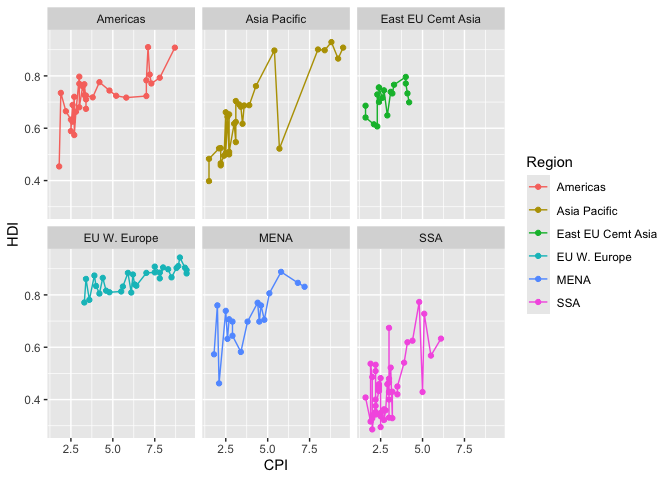
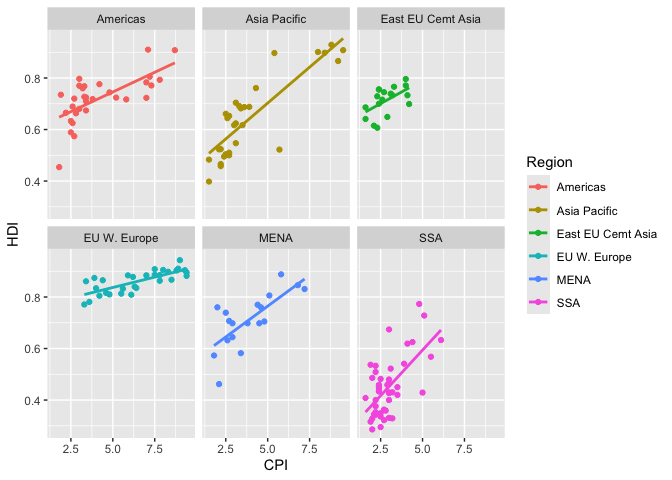
make progress

diff --git a/problem_sets/assignment_4.md b/problem_sets/assignment_4.md
@@ -92,10 +92,12 @@ economist_data |>
 
 ``` r
 economist_data |>
-  ggplot() +
-  geom_point(mapping=aes(x=CPI, y=HDI, color=Region)) +
-  geom_line(mapping=aes(x=CPI, y=HDI, color=Region))
+  ggplot(mapping=aes(x=CPI, y=HDI, color=Region)) +
+  geom_point() +
+  geom_smooth(se=FALSE, method="lm")
 ```
+
+    `geom_smooth()` using formula = 'y ~ x'
 
 ![](assignment_4_files/figure-commonmark/unnamed-chunk-9-1.png)
 
@@ -103,11 +105,13 @@ economist_data |>
 
 ``` r
 economist_data |>
-  ggplot() +
-  geom_point(mapping=aes(x=CPI, y=HDI, color=Region)) +
-  geom_line(mapping=aes(x=CPI, y=HDI, color=Region)) +
+  ggplot(mapping=aes(x=CPI, y=HDI, color=Region)) +
+  geom_point() +
+  geom_smooth(se=FALSE, method="lm") +
   facet_wrap(~Region)
 ```
+
+    `geom_smooth()` using formula = 'y ~ x'
 
 ![](assignment_4_files/figure-commonmark/unnamed-chunk-10-1.png)
 
@@ -220,19 +224,19 @@ through RMarkdown **using the kable() function**, as shown above.
 
 ``` r
 Theoph |>
-  select(contains("t")) |>
+  select(contains("t", ignore.case=FALSE)) |>
   head () |>
   kable()
 ```
 
-| Subject |   Wt | Time |
-|:--------|-----:|-----:|
-| 1       | 79.6 | 0.00 |
-| 1       | 79.6 | 0.25 |
-| 1       | 79.6 | 0.57 |
-| 1       | 79.6 | 1.12 |
-| 1       | 79.6 | 2.02 |
-| 1       | 79.6 | 3.82 |
+| Subject |   Wt |
+|:--------|-----:|
+| 1       | 79.6 |
+| 1       | 79.6 |
+| 1       | 79.6 |
+| 1       | 79.6 |
+| 1       | 79.6 |
+| 1       | 79.6 |
 
 #### **2.2 Rename the `Wt` column to `Weight` and `conc` column to `Concentration` in the `Theoph` dataset.**
 
